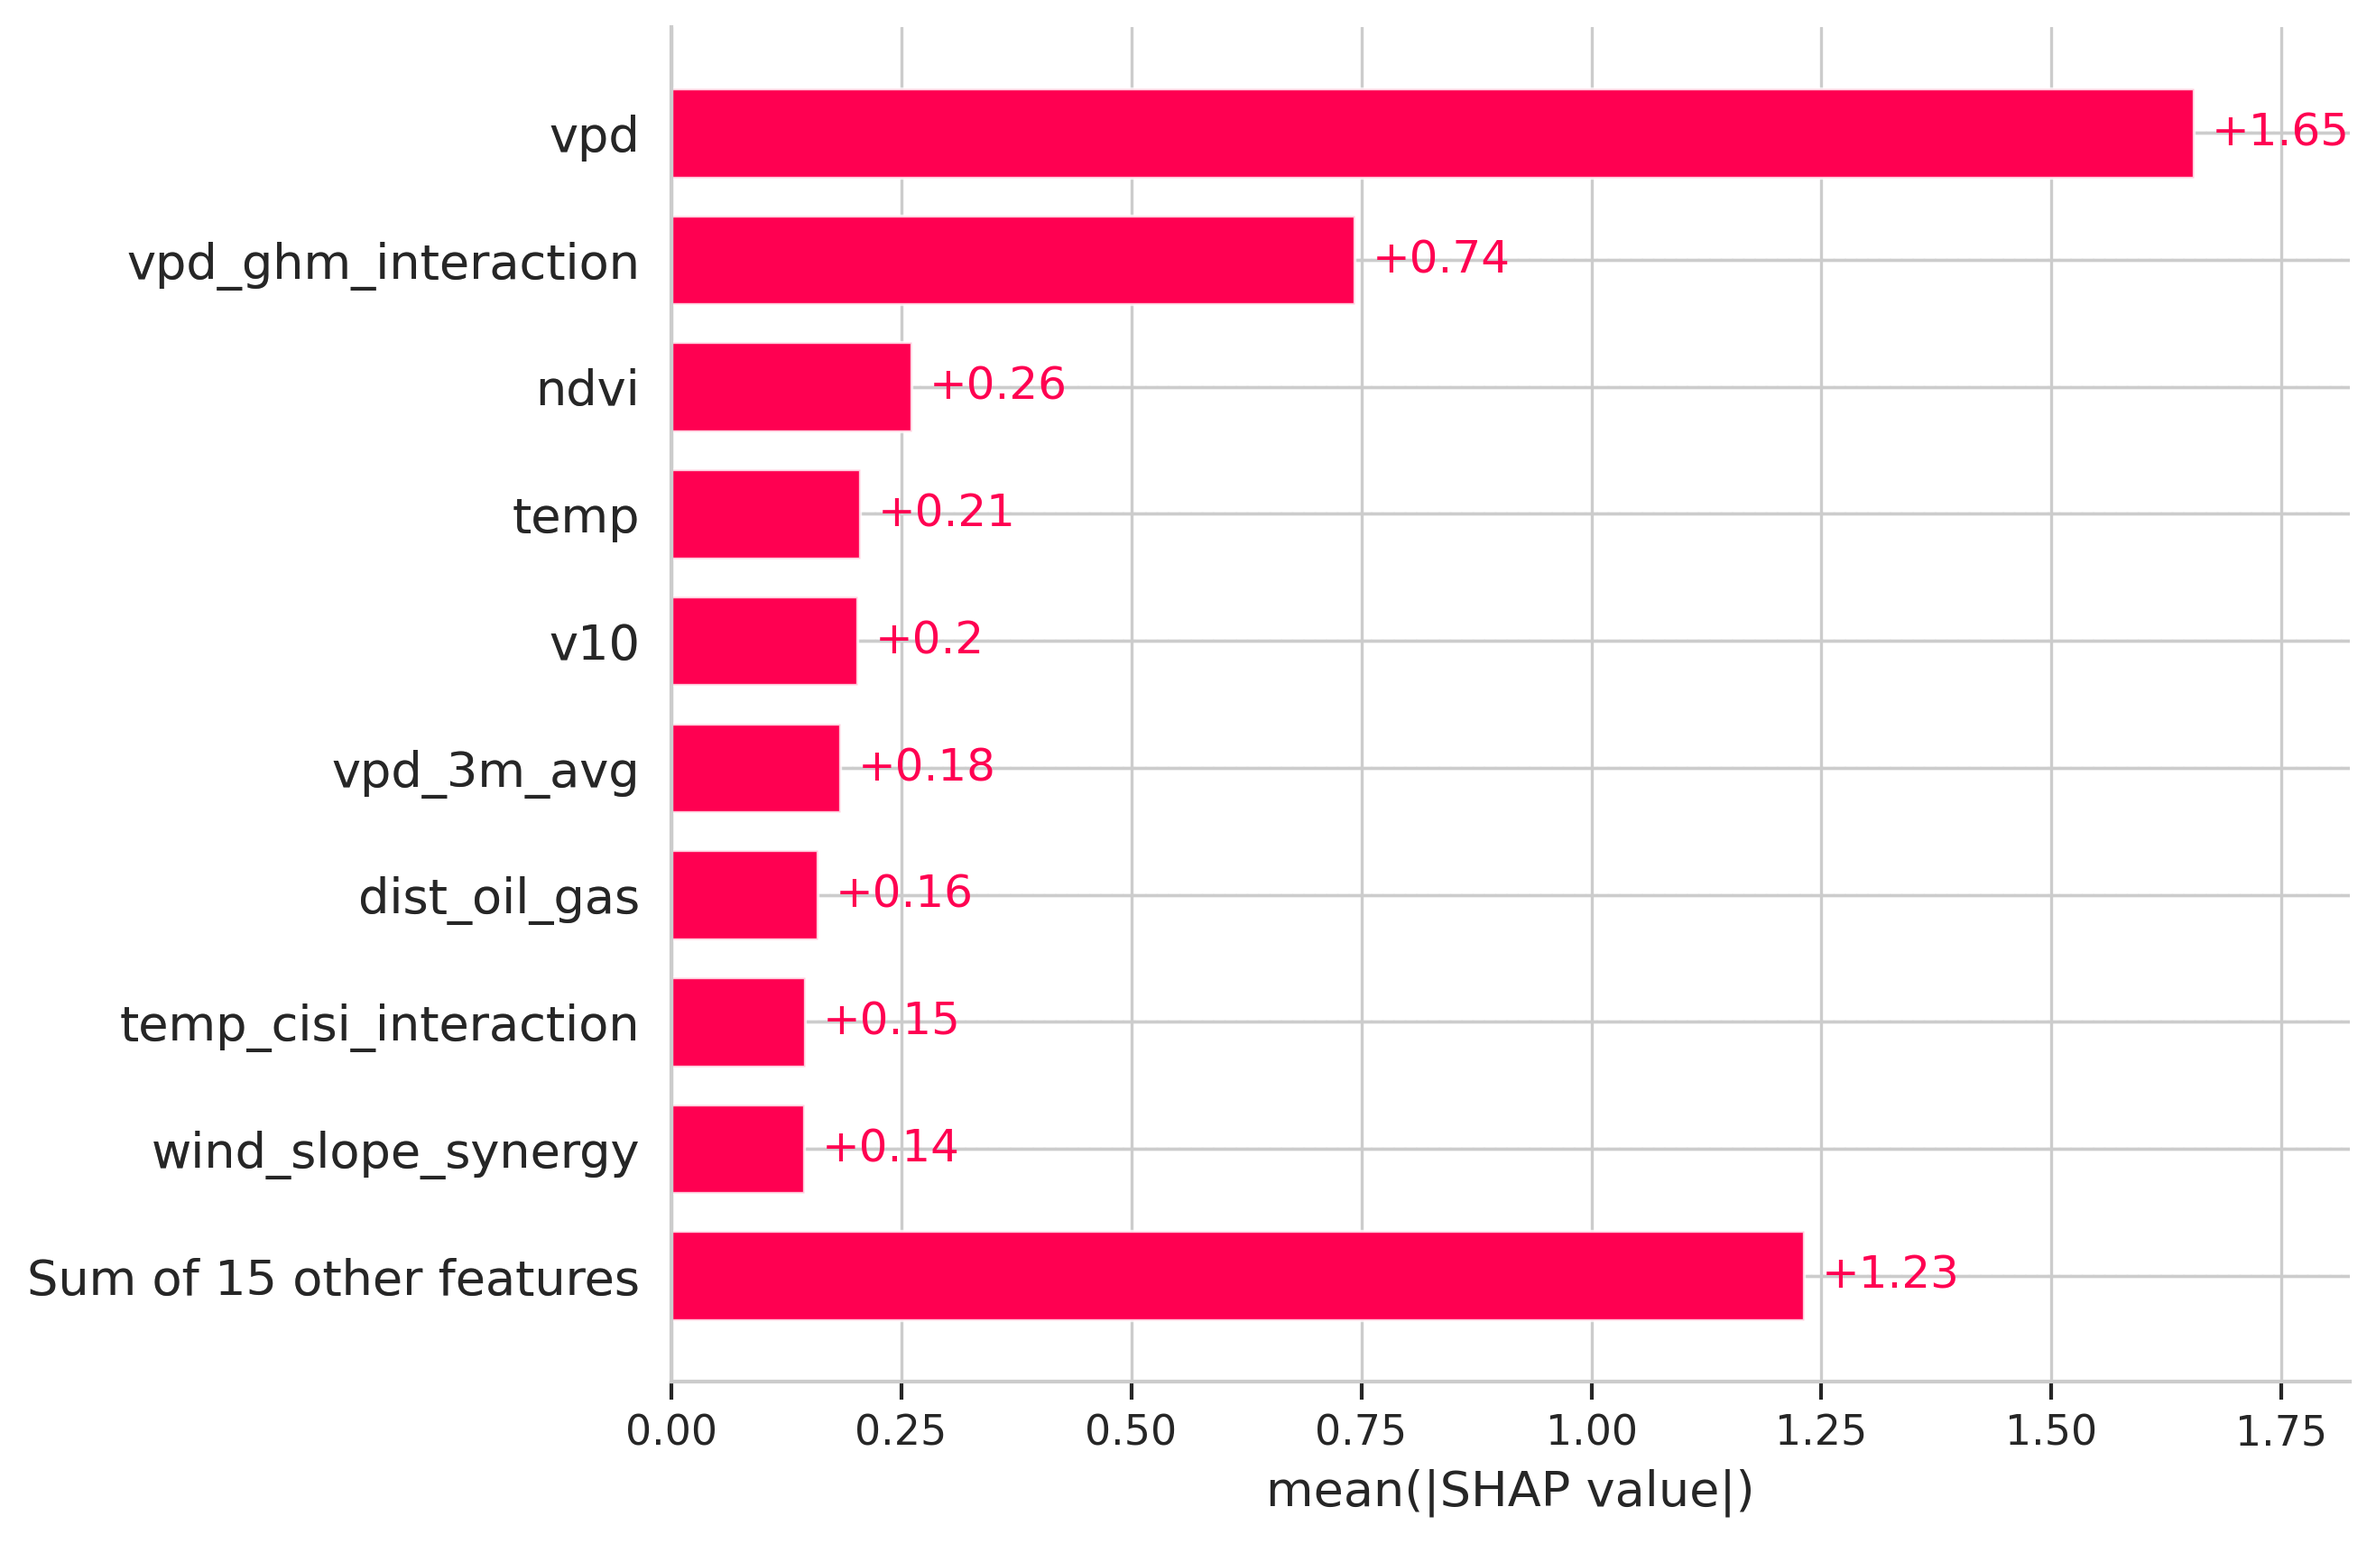
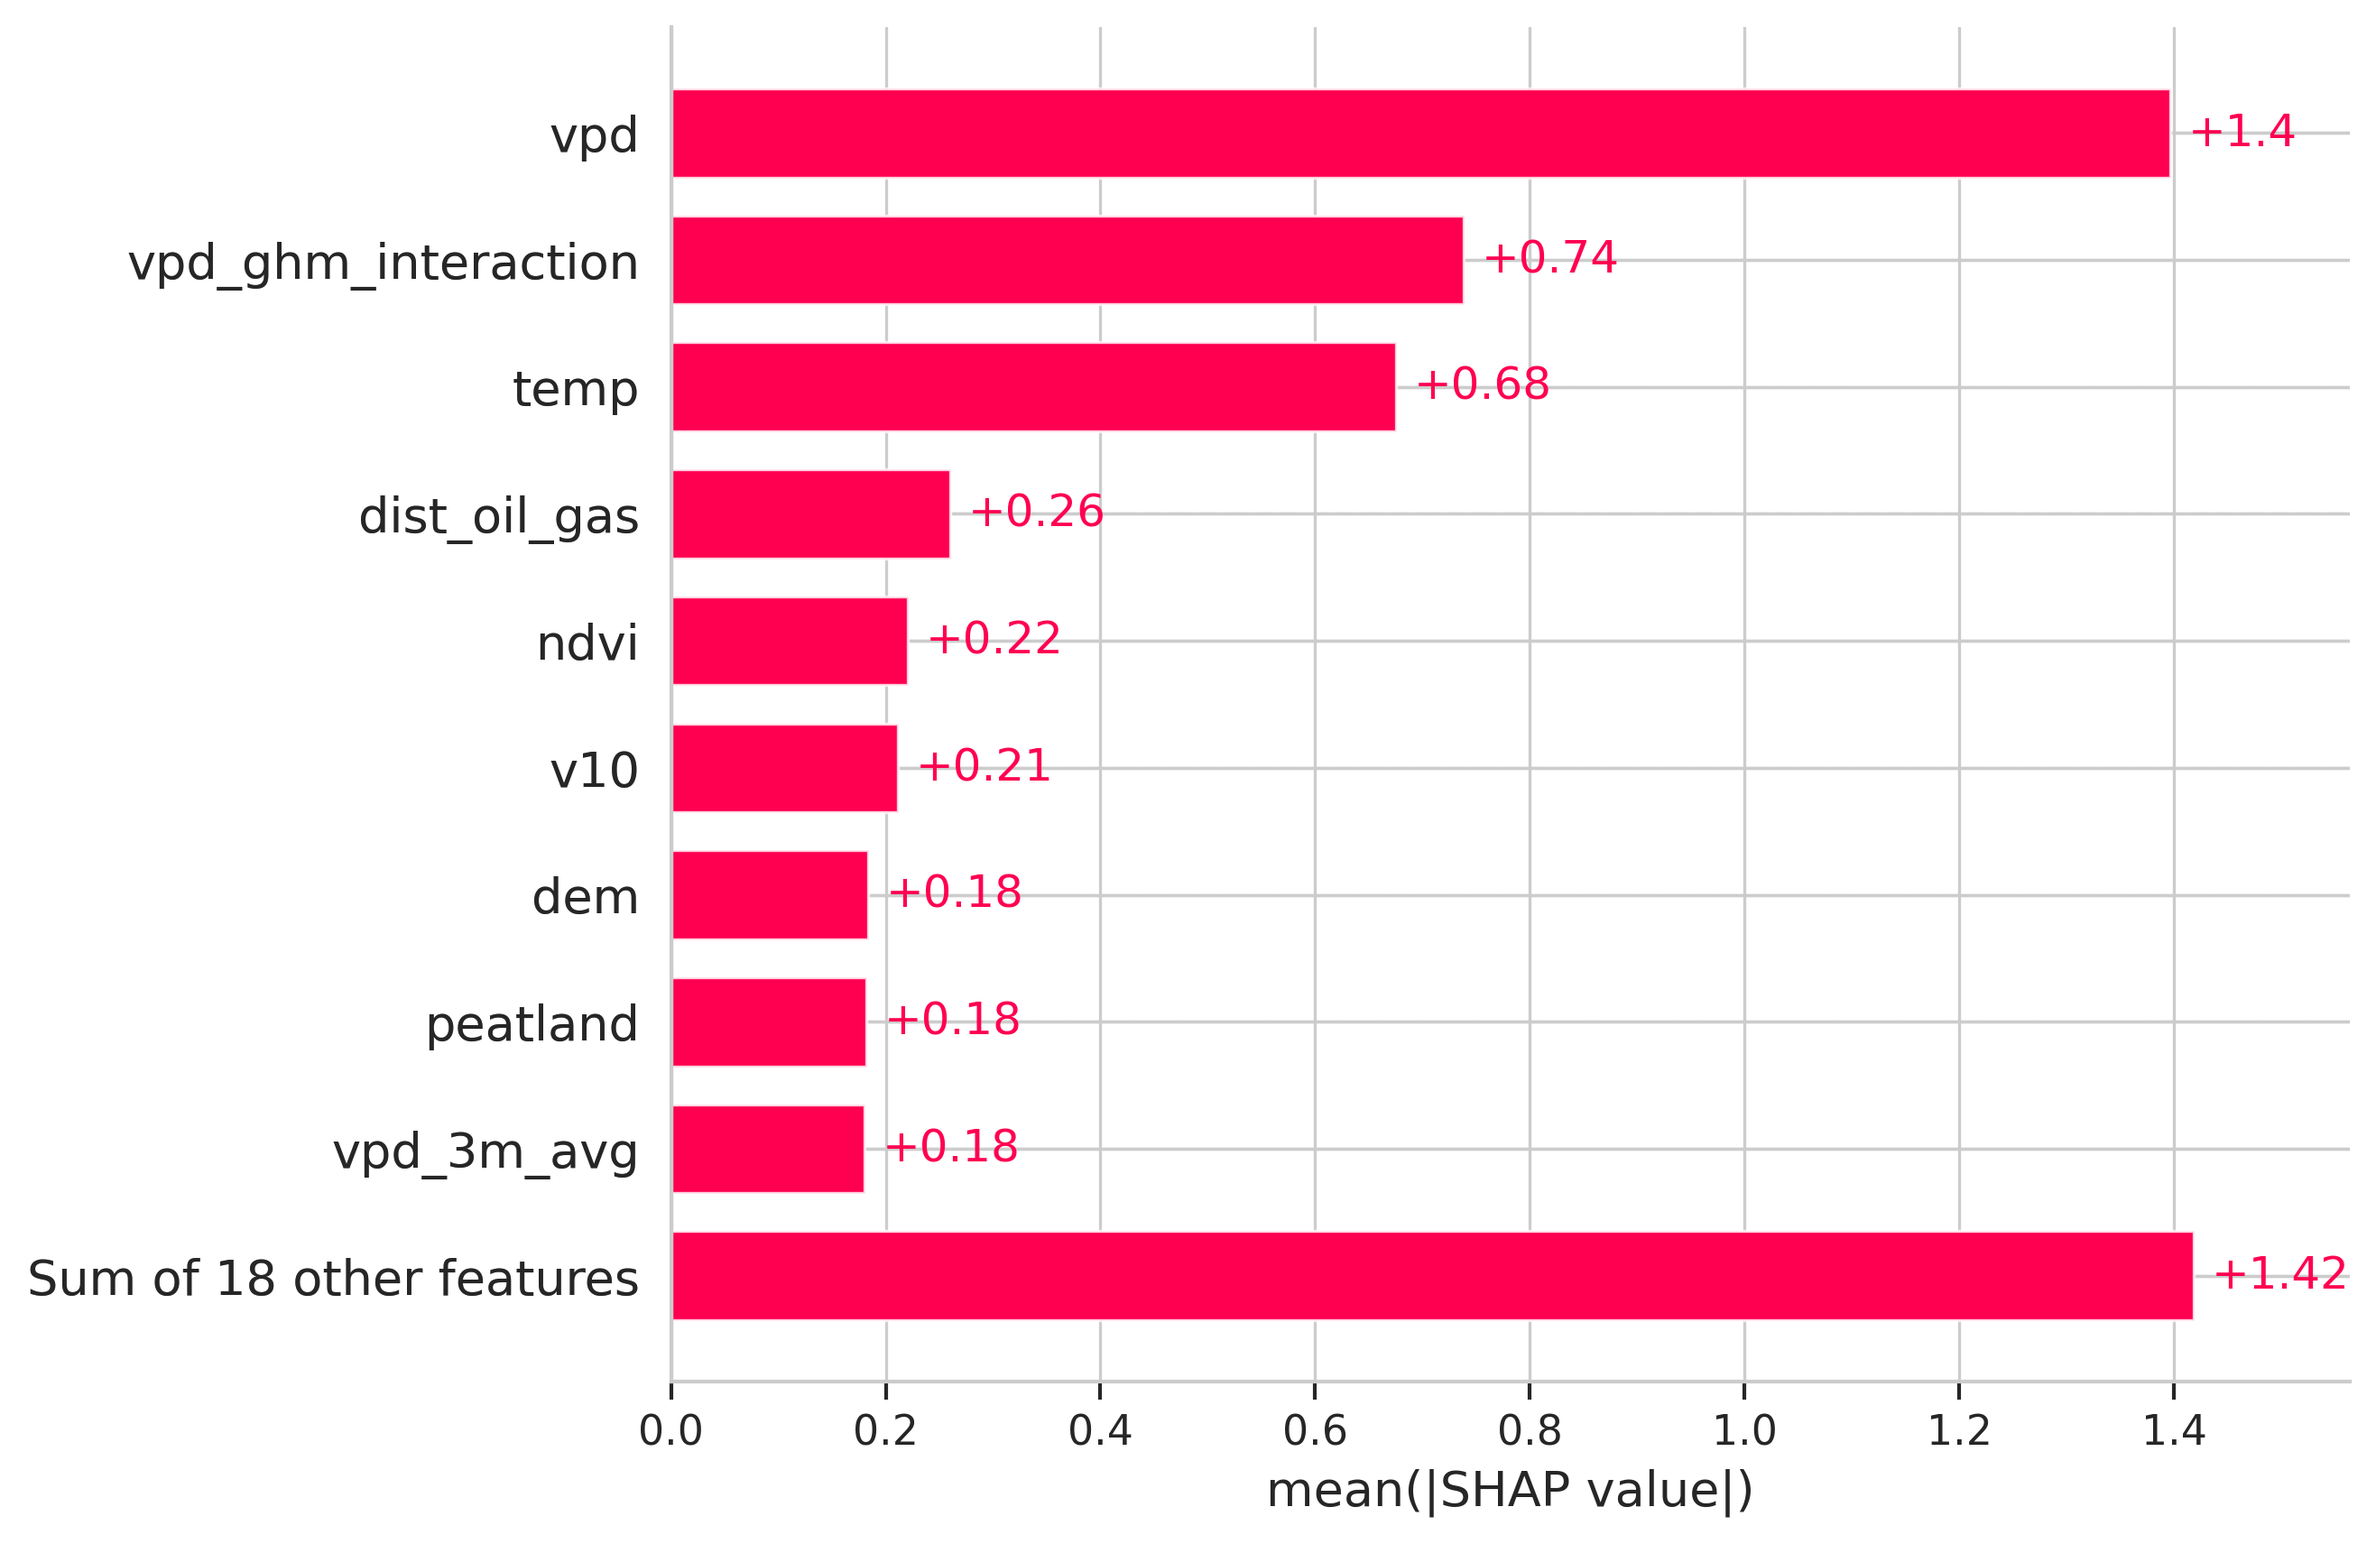
latest change

diff --git a/src/pipelines/wildfire_pipeline.py b/src/pipelines/wildfire_pipeline.py
@@ -18,7 +18,8 @@ from sklearn.metrics import (
     recall_score,
     accuracy_score,
     fbeta_score,
-    make_scorer
+    make_scorer,
+    matthews_corrcoef
 )
 
 from sklearn.model_selection import RandomizedSearchCV, PredefinedSplit
@@ -78,6 +79,8 @@ class WildfirePipeline:
             "temp_cisi_interaction",
             "precip_30p_sum",
             "wind_slope_synergy",
+            "ndvi_vpd_interaction",
+            "dew_ghm_interaction",
         ]
 
         anthropogenic = [
@@ -107,7 +110,7 @@ class WildfirePipeline:
                 'subsample': trial.suggest_float('subsample', 0.6, 1.0),
                 'colsample_bytree': trial.suggest_float('colsample_bytree', 0.6, 1.0),
                 'min_child_weight': trial.suggest_int('min_child_weight', 1, 10),
-                'gamma': trial.suggest_float('float', 0, 5),
+                'gamma': trial.suggest_float('gamma', 0, 5),
                 'scale_pos_weight': scale_pos_weight,
                 'eval_metric': 'logloss',
                 'random_state': 42,
@@ -121,9 +124,13 @@ class WildfirePipeline:
                 raise ValueError("Unsupported model type")
             
             model.fit(X_train, y_train, eval_set=[(X_val, y_val)], verbose=False)
-            y_pred_probs = model.predict_proba(X_val)[:, 1]
-            f1 = f1_score(y_val, y_pred_probs > 0.5)
-            return f1
+            y_val_proba = model.predict_proba(X_val)[:, 1]
+            precisions, recalls, thresholds = precision_recall_curve(y_val, y_val_proba)
+            f1_scores = 2 * (precisions[:-1] * recalls[:-1]) / (precisions[:-1] + recalls[:-1] + 1e-9)
+            best_idx = np.argmax(f1_scores)
+            best_threshold = thresholds[best_idx]
+            best_f1 = f1_scores[best_idx]
+            return best_f1
         
         study = optuna.create_study(direction='maximize', sampler=TPESampler(seed=42))
         study.optimize(objective, n_trials=50, show_progress_bar=True)
@@ -138,22 +145,16 @@ class WildfirePipeline:
             best_params['random_state'] = 42
             best_params['verbosity'] = 0
             self.model = XGBClassifier(**best_params)
-            with open(Path(PROCESSED_DIR) / "best_xgboost_params.json") as f:
+            with open(Path(PROCESSED_DIR) / "best_xgboost_params.json", 'w') as f:
                 json.dump(study.best_params, f)
         elif model_type == "lgbm":
             best_params['scale_pos_weight'] = scale_pos_weight
             best_params['random_state'] = 42
             best_params['verbosity'] = -1
             self.model = LGBMClassifier(**best_params)  
-            with open(Path(PROCESSED_DIR) / "best_lightgbm_params.json") as f:
+            with open(Path(PROCESSED_DIR) / "best_lightgbm_params.json", 'w') as f:
                 json.dump(study.best_params, f)  
-        
-    def find_optimal_threshold(self, model, X_val, y_val):
-        probs = model.predict_proba(X_val)[:, 1]
-        precisions, recalls, thresholds = precision_recall_curve(y_val, probs)
-        f1_scores = 2 * (precisions[:-1] * recalls[:-1]) / (precisions[:-1] + recalls[:-1] + 1e-12)
-        best_idx = np.argmax(f1_scores)
-        return thresholds[best_idx]
+ 
     
     def balance_test_set(self, test_df, random_state=42):
         
@@ -236,8 +237,6 @@ class WildfirePipeline:
             X_test=X_test,
             y_test=y_test,
             optimal_threshold=optimal_threshold,
-            primary_probs=test_probs,          
-            primary_preds=test_preds
         )
     
         test_full = test.copy()
@@ -252,6 +251,7 @@ class WildfirePipeline:
             "threshold": optimal_threshold,
             "accuracy": accuracy_score(y_test, test_preds),
             "f2": fbeta_score(y_test, test_preds, beta=2),
+            "mcc": matthews_corrcoef(y_test, test_preds)
         }
         return self.model, test_full, optimal_threshold
     

diff --git a/src/output/train.py b/src/output/train.py
@@ -46,6 +46,7 @@ def generate_evaluation_artifacts(
     
     print("Logistic Regression Baseline Classification Report:")
     print(classification_report(y_test, baseline_preds))
+    print()
     
     print("\n=== GENERATING VISUAL ARTIFACTS ===")
     if primary_probs is None:
@@ -210,10 +211,10 @@ def evaluate_model(model, X, y, features, threshold=None):
     probs = model.predict_proba(X)[:, 1]
     if threshold is None:
         precisions, recalls, thresholds = precision_recall_curve(y, probs)
-        f1_scores = 2 * (precisions[:-1] * recalls[:-1]) / (precisions[:-1] + recalls[:-1] + 1e-12)
+        f1_scores = 2 * (precisions[:-1] * recalls[:-1]) / (precisions[:-1] + recalls[:-1] + 1e-9)
         best_idx = np.argmax(f1_scores)
         threshold = thresholds[best_idx]
-        print(f"\nOptimal Probability Threshold (Max F1): {threshold:.4f}")
+        print(f"\nOptimal Probability Threshold (Max F1): {threshold:.4f} ({f1_scores[best_idx]})")
     preds = (probs >= threshold).astype(int)
 
     print(classification_report(y, preds))

diff --git a/src/extract/data_loader.py b/src/extract/data_loader.py
@@ -97,6 +97,8 @@ def load_russian_fires(filepath: str, use_start_date: bool = True):
 def create_new_features(df: pd.DataFrame):
     df["vpd_ghm_interaction"] = df["vpd"] * df["ghm"]
     df["vpd_cisi_interaction"] = df["vpd"] * df["cisi"]
+    df["vpd_oil_interaction"] = df["vpd"] * df["dist_oil_gas"]
+    
     df["month"] = df["valid_time"].dt.month
     df["month_sin"] = np.sin(2 * np.pi * df['month'] / 12)
     df["month_cos"] = np.cos(2 * np.pi * df['month'] / 12)

diff --git a/src/extract/split.py b/src/extract/split.py
@@ -5,7 +5,7 @@ import logging
 logger = logging.getLogger(__name__)
 logging.basicConfig(level=logging.INFO, format='%(asctime)s - %(name)s - %(levelname)s - %(message)s')
 
-def temporal_split(df, val_size=0.1, test_size=0.15):
+def temporal_split(df, val_size=0.2, test_size=0.2):
     years = sorted(df['year'].unique())
     n_years = len(years)
     n_test = max(1, int(n_years * test_size))

diff --git a/src/process_manager.py b/src/process_manager.py
@@ -106,8 +106,8 @@ def wildfire_pipeline():
                 params=best_params,
                 feature_group=group,
                 downsample_ratio=10,
-                use_smote=True,
-                smote_ratio=0.2,
+                # use_smote=True,
+                # smote_ratio=0.2,
             )
         else:
             pipeline = WildfirePipeline(
